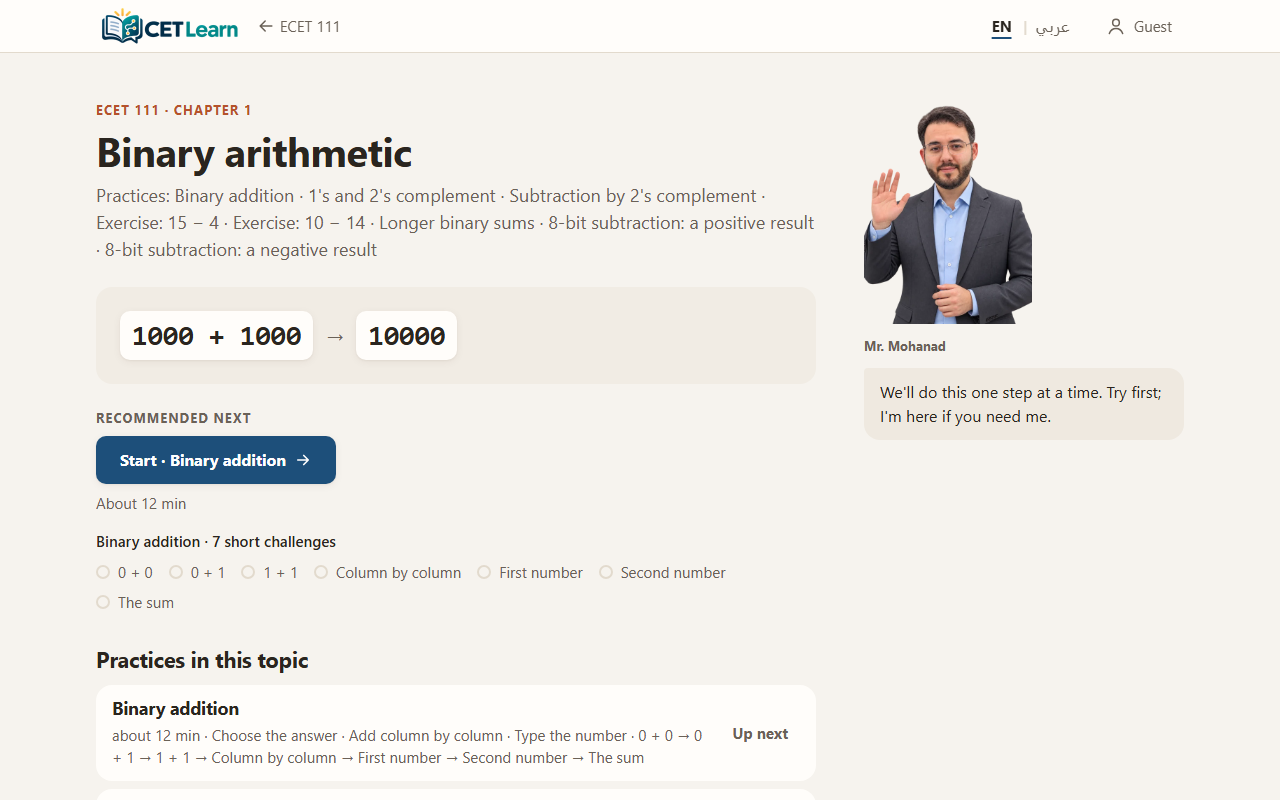
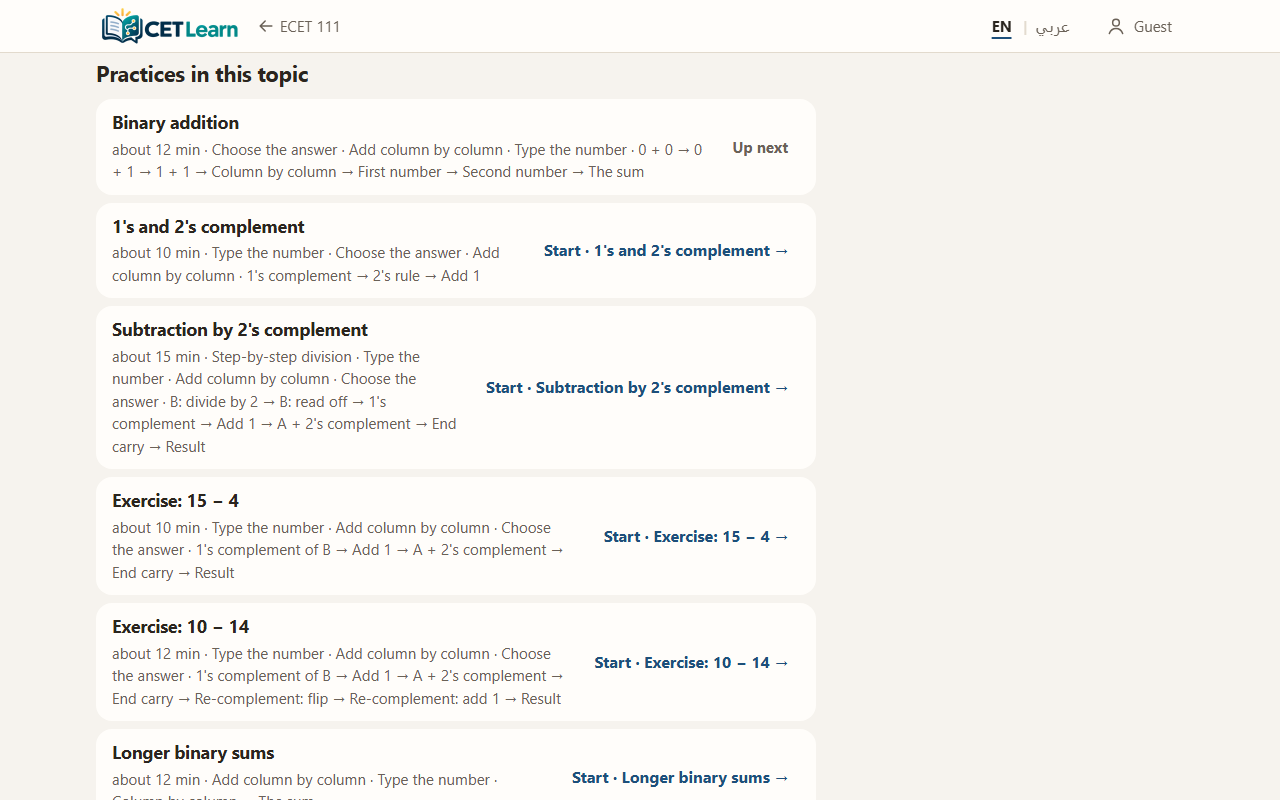
feat(nav): rows name what they open; practices show their kind before entry; Recommended next caption (#673)
- resolver labels from the catalogue: "Start · {practice}", "Continue · …", "Review · …",
  "Next topic · {topic}"; Home rows reuse them (the ui.home.row.* keys fold into ui.action.*)
- course rows: "Open topic →" for a topic of several practices, the practice's own action for one;
  a muted line of the practices (four wide, two on phones, "+N more")
- topic rows: two compact lines, name then status · kind in plain words · steps (ui.kind.*,
  src/shell/kindWords.ts); the row link names the practice and wraps
- "Practices: …" replaces "Today: …" on multi-practice topics; "Recommended next" caption over
  the filled button on course and topic pages (PrimaryAction caption)
- phone row links flush with the text (QA note on #682)
- e2e/navigation-rows.spec.ts at 390 and 1280; renders in docs/renders/673

diff --git a/src/shell/r1/r1.module.css b/src/shell/r1/r1.module.css
@@ -695,8 +695,11 @@
   text-align: right;
 }
 
+/* on phones the row links sit under the text, flush with it (QA note on #682): no inline padding */
 @media (max-width: 640px) {
-  .practiceList .rowActionWrap {
+  .practiceList .rowActionWrap,
+  .rowActions .rowAction {
+    padding-inline: 0;
     text-align: left;
   }
 }
